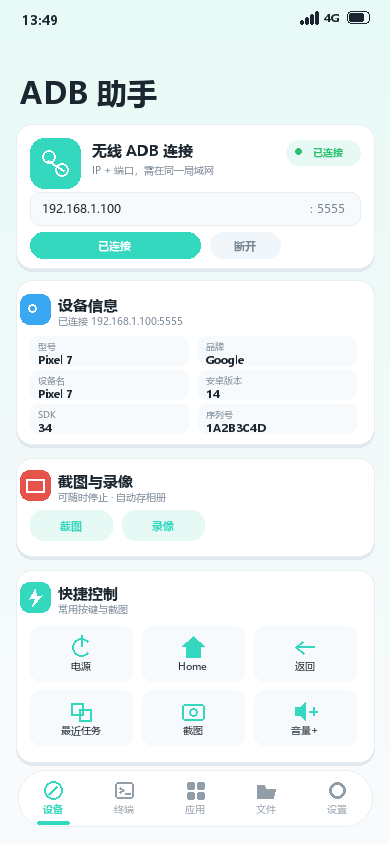
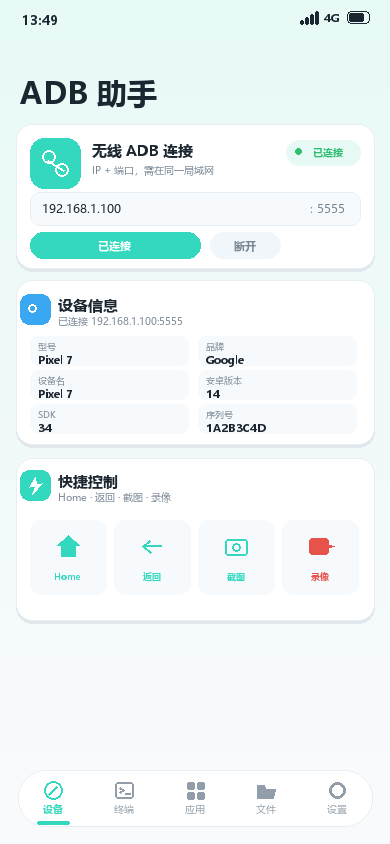
更新 README 与预览图：快捷控制改为 Home/返回/截图/录像四项、设备信息 22 项、去掉已删除的独立截图卡片和功能边界、修正终端假数据与版本号、补充文件下载与 DocumentExporter 说明 [skip ci]

diff --git a/scripts/gen_screenshots.py b/scripts/gen_screenshots.py
@@ -169,43 +169,29 @@ def device():
         text(d, (x + 8, y + 4), k, 9, SUB)
         text(d, (x + 8, y + 16), v, 11, TEXT, True)
 
-    shadow_card(d, (16, 458, 374, 556))
-    section(d, 470, "截图与录像", "可随时停止 · 自动存相册", DANGER, "display")
-    d.rounded_rectangle((30, 510, 112, 540), radius=13, fill=(231, 249, 245))
-    text(d, (71, 525), "截图", 11, MINT, True, "mm")
-    d.rounded_rectangle((122, 510, 204, 540), radius=13, fill=(231, 249, 245))
-    text(d, (163, 525), "录像", 11, MINT, True, "mm")
-
-    shadow_card(d, (16, 570, 374, 762))
-    section(d, 582, "快捷控制", "常用按键与截图", MINT, "bolt")
-    controls = [("电源", "⏻"), ("Home", "⌂"), ("返回", "←"),
-                ("最近任务", "□"), ("截图", "◎"), ("音量+", "♪")]
-    for i, (label, _) in enumerate(controls):
-        x = 30 + (i % 3) * 112
-        y = 626 + (i // 3) * 64
-        d.rounded_rectangle((x, y, x + 102, y + 55), radius=11, fill=(247, 250, 252))
-        cx, cy = x + 51, y + 21
-        if i == 0:  # power
-            d.arc((cx - 9, cy - 9, cx + 9, cy + 9), 40, 320, fill=MINT, width=2)
-            d.line((cx, cy - 12, cx, cy - 1), fill=MINT, width=2)
-        elif i == 1:  # home
-            d.polygon([(cx, cy - 11), (cx - 11, cy - 1), (cx + 11, cy - 1)], fill=MINT)
-            d.rectangle((cx - 7, cy - 1, cx + 7, cy + 10), fill=MINT)
-        elif i == 2:  # back
-            d.line((cx + 9, cy, cx - 9, cy), fill=MINT, width=2)
-            d.line((cx - 9, cy, cx - 2, cy - 6), fill=MINT, width=2)
-            d.line((cx - 9, cy, cx - 2, cy + 6), fill=MINT, width=2)
-        elif i == 3:  # recents
-            d.rectangle((cx - 10, cy - 8, cx + 2, cy + 4), outline=MINT, width=2)
-            d.rectangle((cx - 2, cy - 2, cx + 10, cy + 10), outline=MINT, width=2)
-        elif i == 4:  # camera
-            d.rounded_rectangle((cx - 11, cy - 7, cx + 11, cy + 9), radius=3, outline=MINT, width=2)
-            d.ellipse((cx - 4, cy - 3, cx + 4, cy + 5), outline=MINT, width=2)
-        else:  # volume+
-            d.polygon([(cx - 10, cy - 4), (cx - 5, cy - 4), (cx, cy - 9), (cx, cy + 9), (cx - 5, cy + 4), (cx - 10, cy + 4)], fill=MINT)
-            d.line((cx + 4, cy, cx + 12, cy), fill=MINT, width=2)
-            d.line((cx + 8, cy - 4, cx + 8, cy + 4), fill=MINT, width=2)
-        text(d, (x + 51, y + 40), label, 10, TEXT, False, "mm")
+    shadow_card(d, (16, 458, 374, 620))
+    section(d, 470, "快捷控制", "Home · 返回 · 截图 · 录像", MINT, "bolt")
+    controls = [("Home", "home"), ("返回", "back"), ("截图", "camera"), ("录像", "video")]
+    for i, (label, kind) in enumerate(controls):
+        x = 30 + (i % 4) * 84
+        y = 520
+        d.rounded_rectangle((x, y, x + 76, y + 74), radius=11, fill=(247, 250, 252))
+        cx, cy = x + 38, y + 26
+        tint = DANGER if kind == "video" else MINT
+        if kind == "home":
+            d.polygon([(cx, cy - 11), (cx - 11, cy - 1), (cx + 11, cy - 1)], fill=tint)
+            d.rectangle((cx - 7, cy - 1, cx + 7, cy + 10), fill=tint)
+        elif kind == "back":
+            d.line((cx + 9, cy, cx - 9, cy), fill=tint, width=2)
+            d.line((cx - 9, cy, cx - 2, cy - 6), fill=tint, width=2)
+            d.line((cx - 9, cy, cx - 2, cy + 6), fill=tint, width=2)
+        elif kind == "camera":
+            d.rounded_rectangle((cx - 11, cy - 7, cx + 11, cy + 9), radius=3, outline=tint, width=2)
+            d.ellipse((cx - 4, cy - 3, cx + 4, cy + 5), outline=tint, width=2)
+        else:  # video
+            d.rounded_rectangle((cx - 11, cy - 8, cx + 8, cy + 8), radius=3, fill=tint)
+            d.polygon([(cx + 8, cy - 2), (cx + 14, cy), (cx + 8, cy + 2)], fill=tint)
+        text(d, (x + 38, y + 56), label, 9, tint, True, "mm")
     save(img, "01-device.png")
 
 
@@ -223,11 +209,11 @@ def terminal():
     text(d, (326, 144), "ONLINE", 9, (47, 191, 113), True, "mm")
     lines = [
         ("$ getprop ro.product.model", (168, 243, 216)),
-        ("D01", (150, 180, 200)),
+        ("Pixel 7", (150, 180, 200)),
         ("$ pm list packages -3", (168, 243, 216)),
         ("package:com.tencent.mm", (150, 180, 200)),
         ("package:com.autonavi.minimap", (150, 180, 200)),
-        ("package:com.reathin.adbassist", (150, 180, 200)),
+        ("package:com.adbhelper.ios", (150, 180, 200)),
         ("$ wm size", (168, 243, 216)),
         ("Physical size: 1080x2400", (150, 180, 200)),
         ("$ _", (168, 243, 216)),
@@ -312,7 +298,7 @@ def settings():
     text(d, (104, 136), "ADB 助手 for iOS", 16, TEXT, True)
     text(d, (104, 160), "通过 Wi-Fi 管理你的 Android 设备", 10, SUB)
     d.line((30, 208, 360, 208), fill=BORDER, width=1)
-    rows = [("版本", "1.0.0"), ("授权方式", "RSA 2048 · 需手机确认"), ("快捷命令", "自定义")]
+    rows = [("版本", "1.1.7"), ("授权方式", "RSA 2048 · 需手机确认"), ("快捷命令", "自定义")]
     y = 220
     for k, v in rows:
         text(d, (32, y), k, 11, SUB)
@@ -324,19 +310,12 @@ def settings():
     text(d, (195, 366), "还没有自定义命令", 12, SUB, False, "mm")
     d.rounded_rectangle((30, 398, 186, 430), radius=14, fill=MINT)
     text(d, (108, 414), "+ 添加命令", 11, (255, 255, 255), True, "mm")
-    d.rounded_rectangle((196, 398, 360, 430), radius=14, fill=(240, 246, 249))
-    text(d, (278, 414), "恢复默认", 11, SUB, True, "mm")
 
     shadow_card(d, (16, 466, 374, 570))
     section(d, 478, "数据", "仅保存在本机", BLUE, "folder")
     text(d, (34, 522), "清空连接记录（0）", 12, DANGER)
     text(d, (350, 522), "›", 14, SUB, False, "mm")
 
-    shadow_card(d, (16, 584, 374, 756))
-    d.rounded_rectangle((30, 598, 60, 628), radius=9, fill=ORANGE)
-    text(d, (45, 613), "!", 14, (255, 255, 255), True, "mm")
-    text(d, (70, 600), "功能边界", 14, TEXT, True)
-    text(d, (30, 638), "未越狱 iOS 无法访问 USB 硬件，不支持 USB ADB、Fastboot 刷机、scrcpy 实时投屏和无线调试配对码配对。本应用支持局域网无线 ADB（TCP 5555）。", 11, SUB)
     save(img, "05-settings.png")
 
 

diff --git a/README.md b/README.md
@@ -9,11 +9,11 @@
 | 模块 | 说明 |
 | --- | --- |
 | 无线连接 | 输入 `IP:端口`（默认 5555），RSA 认证，连接记录一键直连 |
-| 设备信息 | 20+ 项只读属性：型号、品牌、硬件平台、内核、SELinux、活动槽、启动验证、存储、安全补丁等 |
-| 快捷控制 | 电源 / Home / 返回 / 最近任务 / 音量、亮度、DPI、分辨率、旋转、重启 |
+| 设备信息 | 22 项只读属性：型号、品牌、设备名、安卓版本、SDK、序列号、制造商、硬件平台、CPU 架构、编译信息、安全补丁、活动槽、启动验证、内核、SELinux、存储等 |
+| 快捷控制 | Home、返回、截图、录像（四个按钮，截图/录像入口都在这里） |
 | Shell 终端 | 任意 `adb shell` 命令、快捷命令、命令与输出分色、可拖选复制 |
 | 应用管理 | 应用列表（含中文名）、搜索、启动、强停、冻结 / 解冻、清数据、卸载、安装 APK（带进度） |
-| 文件管理 | 浏览设备目录（含 `/data` 等系统路径）、上传、下载、删除 |
+| 文件管理 | 浏览设备目录（含 `/data` 等系统路径）、上传、下载到系统「存储到文件」面板自选位置、删除 |
 | 截图 | `exec-out screencap -p` 纯流式取图，**不在被控设备留下任何文件**，预览后可存相册 |
 | 录像 | `screenrecord`，可随时停止；**默认自动保存到相册**，失败时回退到「文件」App |
 
@@ -57,7 +57,7 @@ xcodebuild -project ADBHelper.xcodeproj -scheme ADBHelper \
   -archivePath build/ADBHelper.xcarchive archive
 ```
 
-仓库自带 GitHub Actions（`.github/workflows/build.yml`）：推到 `main` 会自动编译并把 IPA 发到 Releases，tag 形如 `v1.1.4-b25`（版本号 + 构建号），完整保留历史版本，Release 说明里自动带上本次提交记录。
+仓库自带 GitHub Actions（`.github/workflows/build.yml`）：推到 `main` 会自动编译并把 IPA 发到 Releases，tag 形如 `v1.1.7-b28`（版本号 + 构建号），完整保留历史版本，Release 说明里自动带上本次提交记录。
 
 ## 使用前提（Android 端）
 
@@ -73,6 +73,7 @@ xcodebuild -project ADBHelper.xcodeproj -scheme ADBHelper \
 - **截图**走 `exec-out screencap -p`，PNG 数据直接流回 iPhone，不会在被控设备写文件。
 - **录像**用系统自带的 `screenrecord`：跑在一个常开的 adb shell 通道里（`exec screenrecord`），停止时发送 `SIGINT`，让它把 MP4 的 moov 写完再退出，然后通过 sync 协议拉回本机。默认分辨率启动失败会自动降级到 `--size 1280x720`，临时目录不可写会退到 `/sdcard`；拉取完成后**立即删除设备端文件**，下次连接还会清理历史残留。
 - 录像**不含声音**，系统限制单段最长约 180 秒；停止后自动存相册，相册权限被拒时保留在「文件」App。
+- **文件下载**先拉回 App 沙盒，再调起系统「存储到文件」面板，由你选择保存位置；不会偷偷只写在沙盒里。
 - 终端使用只读 `UITextView` 渲染富文本，命令与输出分色，支持长按拖选任意内容复制。
 - 所有 ADB 操作在一条串行队列上跑，多路复用按 `localId` 分发，兼容部分 ROM 的 OKAY 参数顺序差异。
 
@@ -107,7 +108,8 @@ ios-adb-helper/
 │   ├── Models.swift             数据模型
 │   ├── Theme.swift              视觉风格与复用组件
 │   ├── TerminalTextView.swift   可选中的终端文本视图
-│   ├── DocumentPicker.swift     UIKit 文件选择器
+│   ├── DocumentPicker.swift     UIKit 文件导入选择器
+│   ├── DocumentExporter.swift   UIKit 系统「存储到文件」面板
 │   ├── Info.plist
 │   ├── Assets.xcassets          应用图标
 │   └── Views/                   设备、终端、应用、文件、设置页
